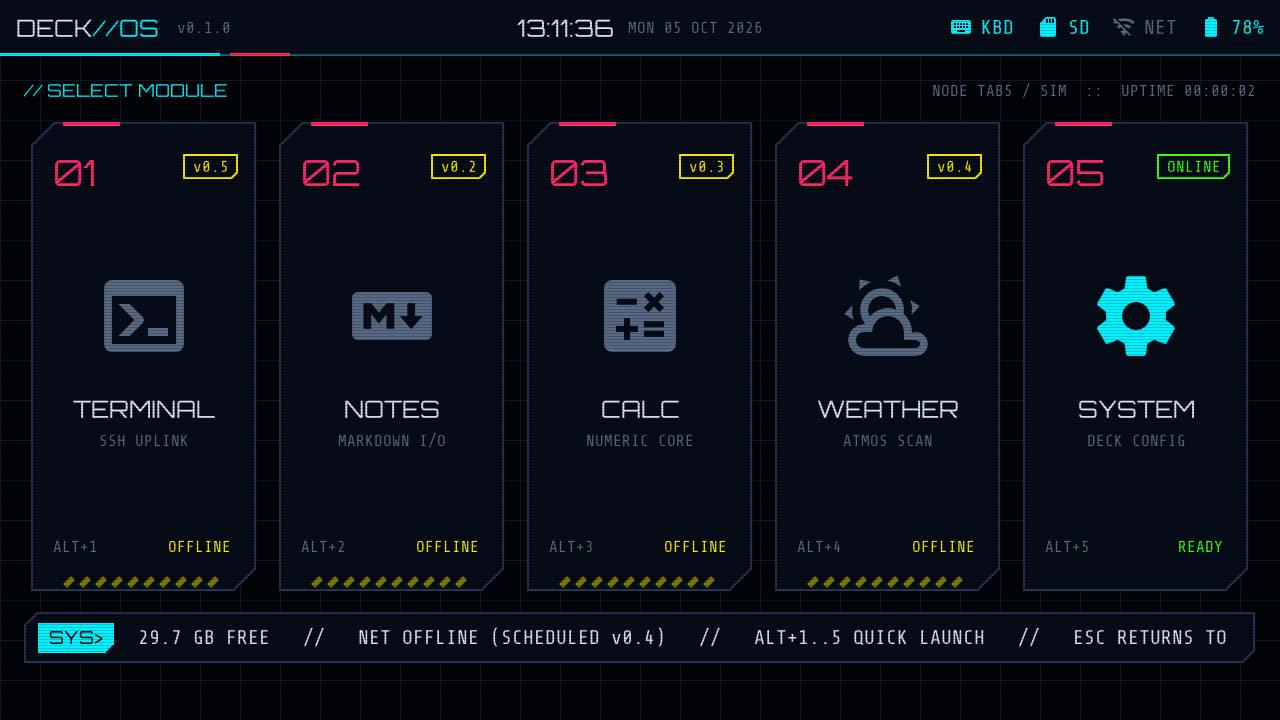
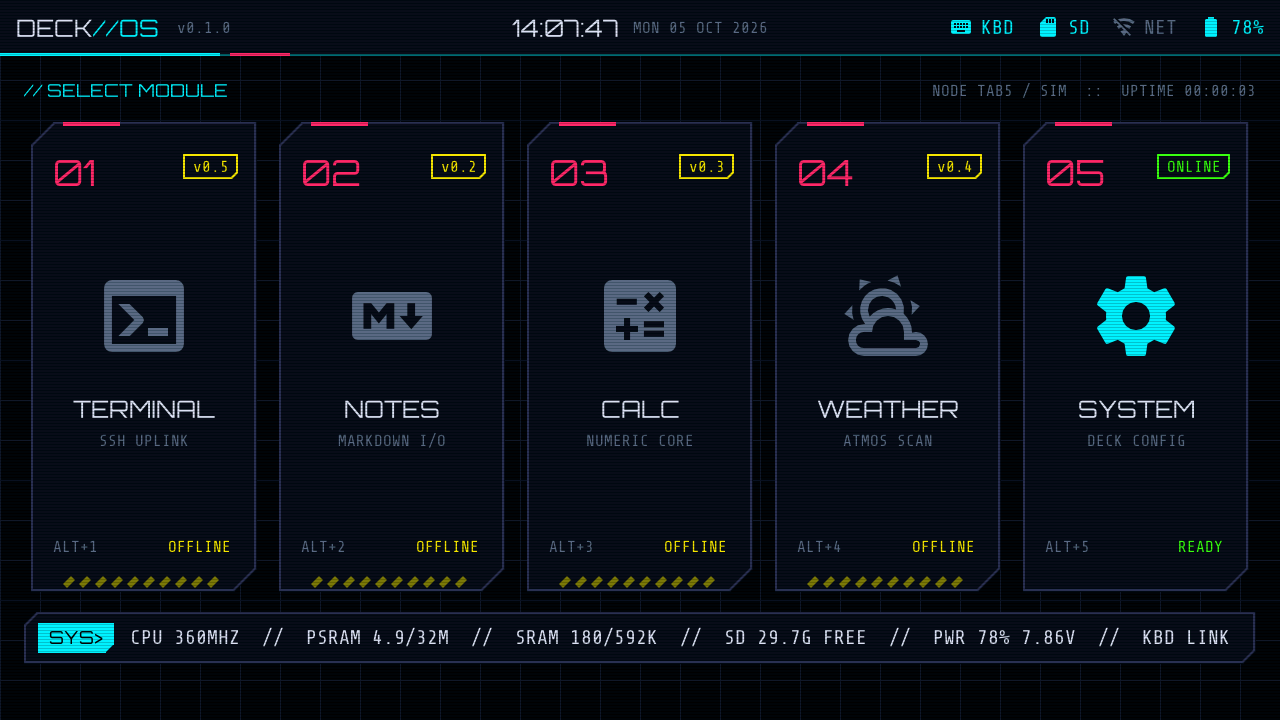
Home: replace scrolling ticker with decode-in system stats
The bottom bar scrambles for ~2.4 s on arrival, locking characters in
left to right with tear and color flicker, then settles on a static
readout (CPU, PSRAM, SRAM, SD, power, keyboard) refreshed every second.

Changed region(s): [[0.25, 0.8556, 0.9688, 0.9167], [0.4062, 0.0, 0.5938, 0.0611], [0.0938, 0.8556, 0.2188, 0.9167]]

diff --git a/components/deck_core/deck_launcher.c b/components/deck_core/deck_launcher.c
@@ -5,6 +5,7 @@
 #include "deck_launcher.h"
 
 #include <stdio.h>
+#include <string.h>
 
 #include "deck_hal.h"
 #include "deck_shell.h"
@@ -22,6 +23,10 @@ static int s_sel;          /* keyboard selection, survives trips into apps */
 static bool s_kbd_nav;     /* only show the selection once the keyboard is used */
 static lv_obj_t *s_uptime;
 static lv_timer_t *s_timer;
+static lv_obj_t *s_stats;
+static lv_timer_t *s_stats_timer;
+static uint32_t s_stats_start;
+static bool s_stats_settled;
 
 static void tile_clicked(lv_event_t *e)
 {
@@ -96,24 +101,92 @@ static void launcher_deleted(lv_event_t *e)
         lv_timer_delete(s_timer);
         s_timer = NULL;
     }
+    if (s_stats_timer) {
+        lv_timer_delete(s_stats_timer);
+        s_stats_timer = NULL;
+    }
     s_tile_count = 0;
     s_uptime     = NULL;
+    s_stats      = NULL;
 }
 
-static const char *ticker_text(void)
+/* ---- Stats line ---------------------------------------------------------
+ * On arrival the line "decodes": scrambled glyphs that lock in left to right
+ * with a little jitter and color flicker, then it settles into a static
+ * readout refreshed once a second. */
+
+#define DECODE_MS 2400     /* total scramble time */
+#define DECODE_TICK_MS 40
+#define STATS_X 92
+
+static const char *stats_text(void)
 {
-    static char buf[320];
-    char sd[40];
+    static char buf[160];
+    hal_sysinfo_t si;
+    hal_sysinfo(&si);
+    hal_power_t p;
+    hal_power_read(&p);
+
+    char sd[24], pwr[24];
     if (hal_sd_mounted()) {
-        snprintf(sd, sizeof(sd), "SD %.1f GB FREE", (double)hal_sd_free_bytes() / 1e9);
+        snprintf(sd, sizeof(sd), "SD %.1fG FREE", (double)hal_sd_free_bytes() / 1e9);
     } else {
-        snprintf(sd, sizeof(sd), "SD NO MEDIA");
+        snprintf(sd, sizeof(sd), "SD --");
     }
-    snprintf(buf, sizeof(buf),
-             "KBD LINK %s   //   %s   //   NET OFFLINE (SCHEDULED v0.4)   //   "
-             "ALT+1..%d QUICK LAUNCH   //   ESC RETURNS TO DECK   //   THE NET IS VAST, STAY FROSTY   //   ",
-             hal_kbd_present() ? "ONLINE" : "DOWN", sd, (int)deck_app_count());
+    if (!p.valid) {
+        snprintf(pwr, sizeof(pwr), "PWR --");
+    } else if (p.percent < 0) {
+        snprintf(pwr, sizeof(pwr), "PWR USB");
+    } else {
+        snprintf(pwr, sizeof(pwr), "PWR %d%% %.2fV", p.percent, (double)p.volts);
+    }
+    snprintf(buf, sizeof(buf), "CPU %luMHZ  //  PSRAM %.1f/%.0fM  //  SRAM %lu/%luK  //  %s  //  %s  //  KBD %s",
+             (unsigned long)si.cpu_mhz, (double)(si.psram_total - si.psram_free) / 1048576.0,
+             (double)si.psram_total / 1048576.0, (unsigned long)((si.heap_int_total - si.heap_int_free) / 1024),
+             (unsigned long)(si.heap_int_total / 1024), sd, pwr, hal_kbd_present() ? "LINK" : "DOWN");
     return buf;
+}
+
+static void stats_tick(lv_timer_t *t)
+{
+    const char *target = stats_text();
+    if (s_stats_settled) {
+        lv_label_set_text(s_stats, target);
+        return;
+    }
+
+    uint32_t elapsed = lv_tick_elaps(s_stats_start);
+    if (elapsed >= DECODE_MS) {
+        s_stats_settled = true;
+        lv_label_set_text(s_stats, target);
+        lv_obj_set_style_text_color(s_stats, g_pal.text, 0);
+        lv_obj_align(s_stats, LV_ALIGN_LEFT_MID, STATS_X, 0);
+        lv_timer_set_period(t, 1000);
+        return;
+    }
+
+    /* Characters lock in left to right over the last two thirds of the run;
+     * before that everything is noise. */
+    static const char noise[] = "!<>-_/\\[]{}=+*^?#%&0123456789ABCDEFXZ";
+    size_t len      = strlen(target);
+    int32_t lock_at = (int32_t)elapsed - DECODE_MS / 3;
+    size_t locked   = lock_at <= 0 ? 0 : (size_t)((uint64_t)lock_at * len / (DECODE_MS * 2 / 3));
+    char buf[160];
+    for (size_t i = 0; i < len && i < sizeof(buf) - 1; i++) {
+        char c = target[i];
+        buf[i] = (i < locked || c == ' ') ? c : noise[lv_rand(0, sizeof(noise) - 2)];
+    }
+    buf[len < sizeof(buf) ? len : sizeof(buf) - 1] = '\0';
+    lv_label_set_text(s_stats, buf);
+
+    /* Occasional horizontal tear and color flicker. */
+    bool tear = lv_rand(0, 9) < 3;
+    lv_obj_align(s_stats, LV_ALIGN_LEFT_MID, STATS_X + (tear ? (int32_t)lv_rand(0, 12) - 6 : 0), 0);
+    static const lv_color_t *flicker[3];
+    flicker[0] = &g_pal.accent;
+    flicker[1] = &g_pal.accent2;
+    flicker[2] = &g_pal.text;
+    lv_obj_set_style_text_color(s_stats, *flicker[tear ? lv_rand(0, 1) : 2], 0);
 }
 
 void deck_launcher_create(lv_obj_t *parent)
@@ -157,11 +230,14 @@ void deck_launcher_create(lv_obj_t *parent)
     lv_obj_t *tl = deck_label(tag, g_font.disp_s, g_pal.bg, "SYS>");
     lv_obj_center(tl);
 
-    lv_obj_t *tick = deck_label(bar, g_font.mono_m, g_pal.text, ticker_text());
-    lv_label_set_long_mode(tick, LV_LABEL_LONG_MODE_SCROLL_CIRCULAR);
-    lv_obj_set_width(tick, 1228 - 28 - 76 - 20);
-    lv_obj_set_style_anim_duration(tick, 70, 0); /* for scrolling labels this is px/s */
-    lv_obj_align(tick, LV_ALIGN_LEFT_MID, 92, 0);
+    s_stats = deck_label(bar, g_font.mono_m, g_pal.text, "");
+    lv_label_set_long_mode(s_stats, LV_LABEL_LONG_MODE_CLIP);
+    lv_obj_set_width(s_stats, 1228 - 28 - STATS_X);
+    lv_obj_align(s_stats, LV_ALIGN_LEFT_MID, STATS_X, 0);
+    s_stats_start   = lv_tick_get();
+    s_stats_settled = false;
+    s_stats_timer   = lv_timer_create(stats_tick, DECODE_TICK_MS, NULL);
+    stats_tick(s_stats_timer);
 
     uptime_tick(NULL);
     s_timer = lv_timer_create(uptime_tick, 1000, NULL);
